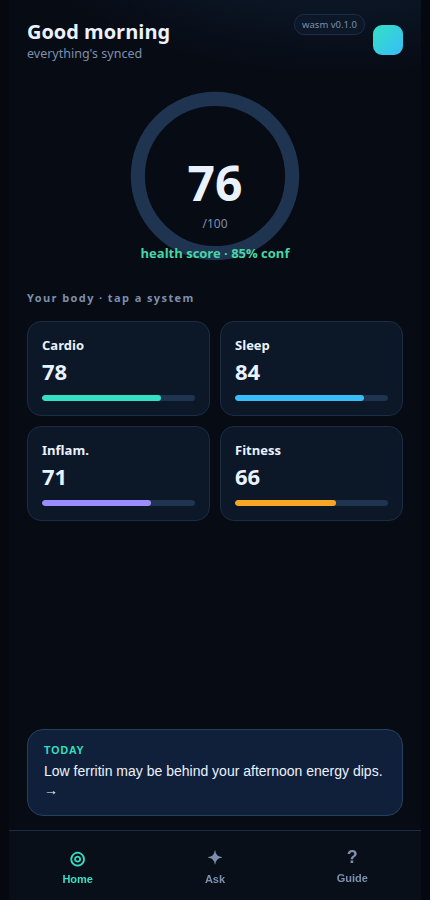
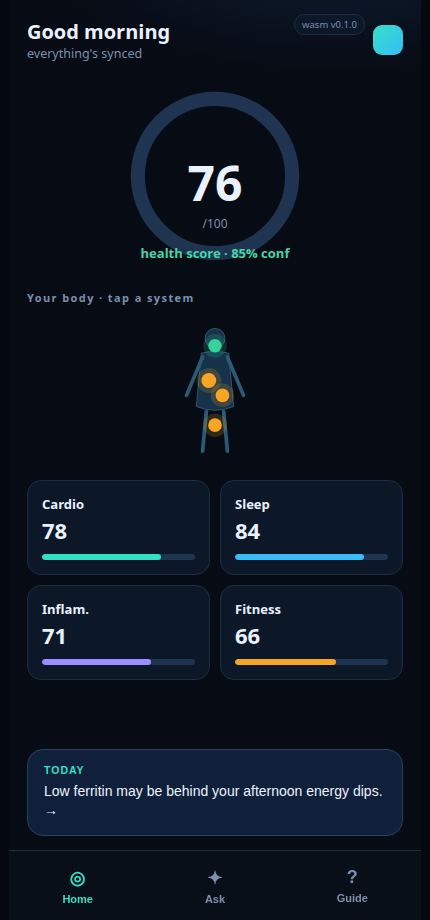
feat(helix-ui): interactive digital twin + dynamic briefing (realizes ADR-015)
Dashboard & mobile UX upgrade:
- Anatomical digital twin (ADR-015, previously N/A): a body silhouette with
  organ/system dots colour-coded from the REAL subsystem scores (good/watch/
  attention), tappable -> system detail modal, with a legend. Schematic and
  strictly data-driven — never a fabricated scan (ADR-015 safety principle).
- 'Today' briefing is now DYNAMIC: the real grounded pipeline insight
  ('ferritin 28 ng/mL, trending down · Quest') with a click-through to the full
  cited answer — replacing the static placeholder.
- Mirrored the twin onto the mobile PWA home screen.

Validated in headless Chrome; dashboard.png + mobile.png refreshed.

Considered ruvnet/rupixel (pixel-native visual RAG): noted as a future capability
for visual lab-document retrieval + a client-side WASM Embedder for helix-retrieval.

diff --git a/ui/app.js b/ui/app.js
@@ -112,6 +112,88 @@ function renderDashboard() {
     el.onclick = () => openSystemModal(s);
     sys.appendChild(el);
   });
+
+  renderTwin();
+  renderBriefing();
+}
+
+// Status colour for a sub-score (schematic, from the user's own data — ADR-015).
+function statusColor(v) {
+  if (v >= 80) return "#34d399"; // good
+  if (v >= 65) return "#f6a623"; // watch
+  return "#fb7185"; // attention
+}
+
+// Anatomical digital twin — organ dots coloured by the real subsystem scores.
+function renderTwin() {
+  const byKey = Object.fromEntries(SUBSYSTEMS.map((s) => [s.subsystem, s]));
+  // organ → subsystem mapping + position on the silhouette
+  const organs = [
+    { sys: "sleep", cx: 100, cy: 40, r: 11, label: "Brain · sleep" },
+    { sys: "cardiometabolic", cx: 90, cy: 96, r: 12, label: "Heart · cardiometabolic" },
+    { sys: "inflammation", cx: 112, cy: 120, r: 11, label: "Gut · inflammation" },
+    { sys: "fitness", cx: 100, cy: 168, r: 11, label: "Legs · fitness" },
+  ];
+  const dots = organs
+    .map((o) => {
+      const s = byKey[o.sys];
+      const c = statusColor(s.value);
+      return `<g class="organ" data-sys="${o.sys}">
+        <circle class="halo" cx="${o.cx}" cy="${o.cy}" r="${o.r + 8}" fill="${c}"></circle>
+        <circle cx="${o.cx}" cy="${o.cy}" r="${o.r}" fill="${c}"></circle></g>`;
+    })
+    .join("");
+  document.getElementById("twin").innerHTML = `
+    <svg viewBox="0 0 200 230" role="img" aria-label="Body systems map">
+      <circle cx="100" cy="28" r="16" class="body-stroke"/>
+      <path d="M78 52 Q100 46 122 52 L130 138 Q100 150 70 138 Z" class="body-stroke"/>
+      <g class="limb">
+        <path d="M80 58 L54 120"/><path d="M120 58 L146 120"/>
+        <path d="M86 146 L80 210"/><path d="M114 146 L120 210"/>
+      </g>
+      ${dots}
+    </svg>
+    <div class="twin-legend">
+      <span><i style="background:#34d399"></i>good</span>
+      <span><i style="background:#f6a623"></i>watch</span>
+      <span><i style="background:#fb7185"></i>attention</span>
+    </div>`;
+  document.querySelectorAll("#twin .organ").forEach((g) => {
+    g.onclick = () => {
+      const s = SUBSYSTEMS.find((x) => x.subsystem === g.dataset.sys);
+      openSystemModal(s);
+    };
+  });
+}
+
+// Dynamic "Today" briefing — the real grounded insight from the pipeline.
+function renderBriefing() {
+  const q = QUESTIONS[0]; // ferritin
+  const out = JSON.parse(
+    analyze_json(
+      JSON.stringify({
+        concept_code: q.code,
+        records: records.filter((r) => r.code === q.code),
+        now: NOW, staleness_window_days: 365, confidence_floor: 0.5,
+        reference_low: q.lo, reference_high: q.hi, flat_band_per_day: 0.01,
+      })
+    )
+  );
+  const el = document.getElementById("briefing");
+  if (out.outcome === "answered" && out.claims?.length) {
+    const tr = out.trend;
+    const e = out.claims[0].evidence[out.claims[0].evidence.length - 1];
+    el.innerHTML = `Low ferritin may be behind your afternoon energy dips — it's ${e.value} ${e.unit}
+      and ${tr.direction === "falling" ? "trending down" : tr.direction}.
+      <span class="b-cite">${e.concept} ${e.value} ${e.unit} · ${e.source}</span>
+      <span class="b-act" id="brief-ask">See the full answer →</span>`;
+    document.getElementById("brief-ask").onclick = () => {
+      document.querySelector('.nav-item[data-view="ask"]').click();
+      runAsk();
+    };
+  } else {
+    el.textContent = "Everything looks steady today.";
+  }
 }
 
 function overallTrend() {

diff --git a/mobile/mobile.js b/mobile/mobile.js
@@ -36,6 +36,7 @@ async function boot() {
   document.getElementById("m-ring").style.strokeDashoffset = 377 - (377 * score.value) / 100;
   document.getElementById("m-trend").textContent = `health score · ${Math.round(score.confidence * 100)}% conf`;
 
+  renderTwin();
   document.getElementById("m-systems").innerHTML = SYS.map((s) =>
     `<div class="m-sys"><div class="n">${s.n}</div><div class="v">${s.v}</div>
       <div class="bar"><i style="width:${s.v}%;background:${s.c}"></i></div></div>`).join("");
@@ -69,6 +70,24 @@ function renderAnswer(out) {
     <span class="m-tier">TIER 1 · YOUR DATA</span>
     ${out.recommendation ? `<p style="margin-top:8px;color:#d7e3f2;font-size:13px">${out.recommendation.text}</p>` : ""}
     <div class="m-disc">Not a diagnosis · every claim traces to a dated source.</div></div>`;
+}
+
+function statusColor(v) {
+  return v >= 80 ? "#34d399" : v >= 65 ? "#f6a623" : "#fb7185";
+}
+function renderTwin() {
+  const c = (i) => statusColor(SYS[i].v);
+  document.getElementById("m-twin").innerHTML = `
+    <svg viewBox="0 0 200 230" role="img" aria-label="Body systems map">
+      <circle cx="100" cy="28" r="16" class="body-stroke"/>
+      <path d="M78 52 Q100 46 122 52 L130 138 Q100 150 70 138 Z" class="body-stroke"/>
+      <g class="limb"><path d="M80 58 L54 120"/><path d="M120 58 L146 120"/>
+        <path d="M86 146 L80 210"/><path d="M114 146 L120 210"/></g>
+      <g class="organ"><circle class="halo" cx="100" cy="40" r="19" fill="${c(1)}"/><circle cx="100" cy="40" r="11" fill="${c(1)}"/></g>
+      <g class="organ"><circle class="halo" cx="90" cy="96" r="20" fill="${c(0)}"/><circle cx="90" cy="96" r="12" fill="${c(0)}"/></g>
+      <g class="organ"><circle class="halo" cx="112" cy="120" r="19" fill="${c(2)}"/><circle cx="112" cy="120" r="11" fill="${c(2)}"/></g>
+      <g class="organ"><circle class="halo" cx="100" cy="168" r="19" fill="${c(3)}"/><circle cx="100" cy="168" r="11" fill="${c(3)}"/></g>
+    </svg>`;
 }
 
 function show(id) {

diff --git a/ui/app.css b/ui/app.css
@@ -86,8 +86,22 @@ body {
 .system .s-bar { height: 6px; border-radius: 4px; background: #1e3450; margin-top: 10px; overflow: hidden; }
 .system .s-bar i { display: block; height: 100%; border-radius: 4px; }
 
-.briefing-card { grid-column: 1 / -1; }
-.briefing { font-size: 15px; line-height: 1.5; }
+.briefing-card { display: flex; flex-direction: column; }
+.briefing { font-size: 14.5px; line-height: 1.55; }
+.briefing .b-cite { font-family: ui-monospace, Menlo, monospace; font-size: 12px; color: #7fe9cf; margin-top: 8px; display: block; }
+.briefing .b-act { color: var(--vital2); font-weight: 700; cursor: pointer; margin-top: 10px; display: inline-block; }
+
+/* Digital twin */
+.twin-card .card-title { display: block; }
+.twin { display: grid; place-items: center; padding: 6px 0 2px; }
+.twin svg { width: 150px; height: auto; }
+.twin .organ { cursor: pointer; transition: .15s; }
+.twin .organ:hover { filter: brightness(1.3); }
+.twin .halo { opacity: .18; }
+.twin .body-stroke { fill: #16314a; stroke: #2b5b74; stroke-width: 1.5; }
+.twin .limb { stroke: #2b5b74; stroke-width: 6; stroke-linecap: round; fill: none; }
+.twin-legend { display: flex; gap: 14px; justify-content: center; margin-top: 8px; font-size: 11px; color: var(--muted); }
+.twin-legend i { width: 9px; height: 9px; border-radius: 50%; display: inline-block; margin-right: 4px; vertical-align: middle; }
 
 /* Ask */
 .ask-shell { display: grid; grid-template-columns: 320px 1fr; gap: 18px; }

diff --git a/ui/index.html b/ui/index.html
@@ -103,9 +103,14 @@
             <div class="systems" id="systems"></div>
           </div>
 
+          <div class="card twin-card">
+            <div class="card-title">Your body · tap a system <span class="muted" style="font-weight:400">schematic — driven by your data</span></div>
+            <div class="twin" id="twin"></div>
+          </div>
+
           <div class="card briefing-card">
             <div class="card-title">Today</div>
-            <div class="briefing" id="briefing">Run "Ask Helix" to generate a grounded, cited insight from your records.</div>
+            <div class="briefing" id="briefing">Reading your dossier…</div>
           </div>
         </div>
       </section>

diff --git a/mobile/mobile.css b/mobile/mobile.css
@@ -43,6 +43,12 @@ body {
 .score-cap { position: absolute; bottom: 4px; color: var(--ok); font-size: 13px; font-weight: 600; }
 
 .m-section-label { color: var(--muted2); font-size: 11px; letter-spacing: 1.4px; font-weight: 700; }
+.m-twin { display: grid; place-items: center; }
+.m-twin svg { width: 124px; height: auto; }
+.m-twin .body-stroke { fill: #16314a; stroke: #2b5b74; stroke-width: 1.5; }
+.m-twin .limb { stroke: #2b5b74; stroke-width: 6; stroke-linecap: round; fill: none; }
+.m-twin .organ { cursor: pointer; }
+.m-twin .halo { opacity: .18; }
 .m-systems { display: grid; grid-template-columns: 1fr 1fr; gap: 10px; }
 .m-sys { background: #0c1828; border: 1px solid var(--line); border-radius: 14px; padding: 14px; }
 .m-sys .n { font-size: 13px; font-weight: 700; }

diff --git a/mobile/index.html b/mobile/index.html
@@ -32,6 +32,7 @@
       </div>
 
       <div class="m-section-label">Your body · tap a system</div>
+      <div class="m-twin" id="m-twin"></div>
       <div class="m-systems" id="m-systems"></div>
 
       <button class="m-brief" id="m-brief">